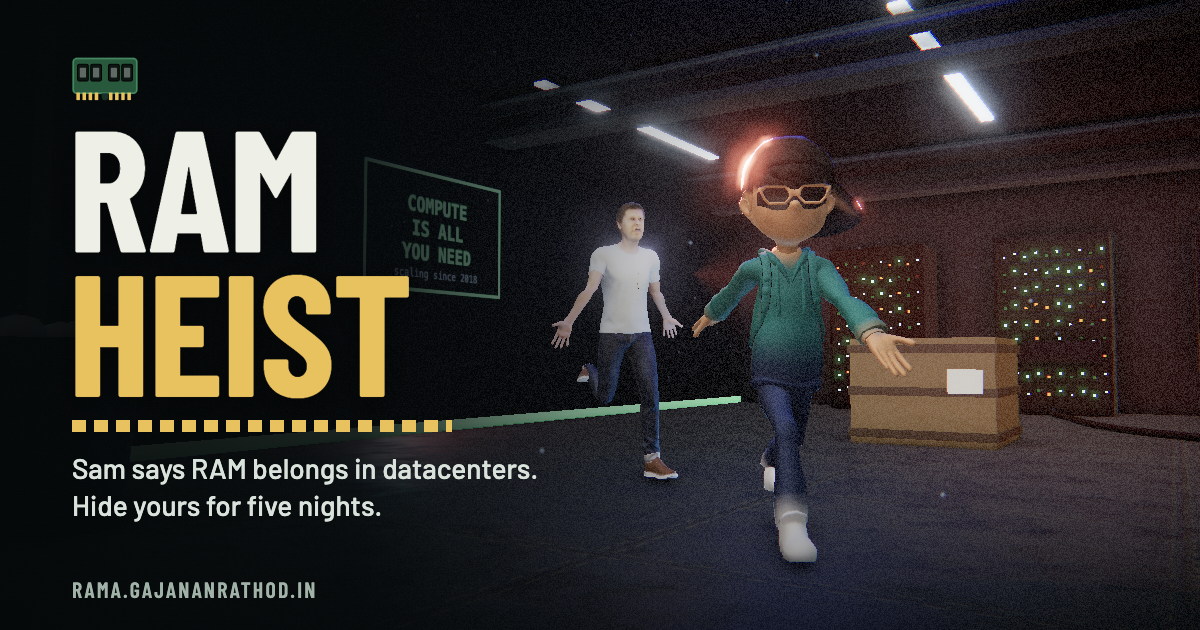
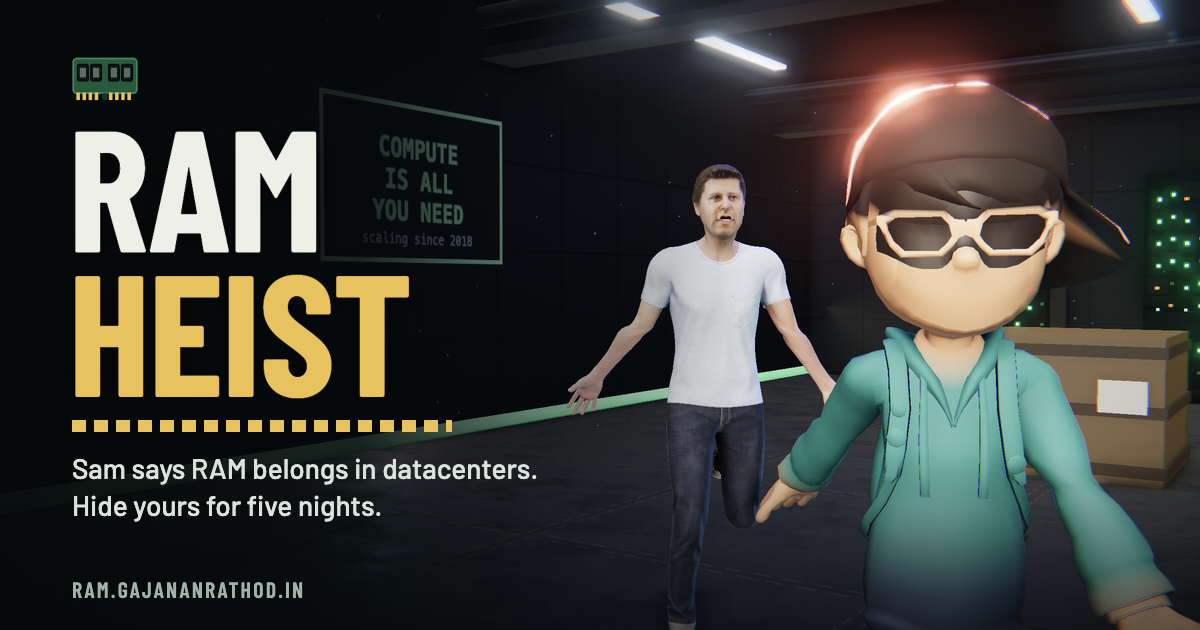
Preview card: ram.gajananrathod.in, clean render with large faces; grain control

diff --git a/index.html b/index.html
@@ -16,15 +16,15 @@
 <meta property="og:site_name" content="RAM Heist" />
 <meta property="og:title" content="RAM Heist: hide your RAM from Sam" />
 <meta property="og:description" content="Sam says RAM belongs in datacenters. Hide yours for five nights, build the People's Cluster, and don't get caught." />
-<meta property="og:url" content="https://rama.gajananrathod.in/" />
-<meta property="og:image" content="https://rama.gajananrathod.in/og-image.png" />
+<meta property="og:url" content="https://ram.gajananrathod.in/" />
+<meta property="og:image" content="https://ram.gajananrathod.in/og-image.png" />
 <meta property="og:image:width" content="1200" />
 <meta property="og:image:height" content="630" />
 <meta property="og:image:alt" content="Aj sprinting through a server room with Sam chasing him. RAM Heist." />
 <meta name="twitter:card" content="summary_large_image" />
 <meta name="twitter:title" content="RAM Heist: hide your RAM from Sam" />
 <meta name="twitter:description" content="A parody stealth game. Hide your RAM for five nights." />
-<meta name="twitter:image" content="https://rama.gajananrathod.in/og-image.png" />
+<meta name="twitter:image" content="https://ram.gajananrathod.in/og-image.png" />
 <link rel="preconnect" href="https://fonts.googleapis.com" />
 <link rel="preconnect" href="https://fonts.gstatic.com" crossorigin />
 <link href="https://fonts.googleapis.com/css2?family=Barlow+Condensed:wght@500;600;700&family=Barlow:wght@400;500;600&display=swap" rel="stylesheet" />

diff --git a/src/engine.js b/src/engine.js
@@ -45,10 +45,10 @@ export const bloom = new UnrealBloomPass(new THREE.Vector2(innerWidth, innerHeig
 composer.addPass(bloom);
 
 export const fxPass = new ShaderPass({
-  uniforms: { tDiffuse: { value: null }, time: { value: 0 }, alert: { value: 0 }, caught: { value: 0 } },
+  uniforms: { tDiffuse: { value: null }, time: { value: 0 }, alert: { value: 0 }, caught: { value: 0 }, grain: { value: 0.03 } },
   vertexShader: `varying vec2 vUv; void main(){ vUv=uv; gl_Position=projectionMatrix*modelViewMatrix*vec4(position,1.); }`,
   fragmentShader: `
-    uniform sampler2D tDiffuse; uniform float time; uniform float alert; uniform float caught; varying vec2 vUv;
+    uniform sampler2D tDiffuse; uniform float time; uniform float alert; uniform float caught; uniform float grain; varying vec2 vUv;
     float h(vec2 p){ return fract(sin(dot(p, vec2(12.9898,78.233)))*43758.5453); }
     void main(){
       vec2 c = vUv-.5; float d = dot(c,c);
@@ -56,7 +56,7 @@ export const fxPass = new ShaderPass({
       vec3 col = vec3(texture2D(tDiffuse,vUv+off).r, texture2D(tDiffuse,vUv).g, texture2D(tDiffuse,vUv-off).b);
       col = mix(col, vec3(dot(col, vec3(.3,.59,.11))), caught*0.6);
       col *= 1.0 - smoothstep(0.1,0.6,d)*0.78;
-      col += (h(vUv*vec2(1920.,1080.)+time)-.5)*0.03;
+      col += (h(vUv*vec2(1920.,1080.)+time)-.5)*grain;
       col += vec3(1.,.05,.1)*alert*0.14*smoothstep(0.04,0.5,d);
       gl_FragColor = vec4(col,1.);
     }`,

diff --git a/src/main.js b/src/main.js
@@ -525,4 +525,4 @@ function step(dt, t, draw = true) {
   if (DEBUG) { ui.show('title', false); startNight(Math.min(parseInt(params.get('night') || '0', 10), 4)); }
   requestAnimationFrame(frame);
 })();
-if (DEBUG) window.__g = { audio, cluster, traps, breakers, placeTrap, useBreaker, playIntro, pickups, spawnPickup, endEndless, step, G, ctx, world, player, camera, get sams() { return sams; }, startNight, endNight, nav, hasModel };
+if (DEBUG) window.__g = { renderer, fxPass, scene, audio, cluster, traps, breakers, placeTrap, useBreaker, playIntro, pickups, spawnPickup, endEndless, step, G, ctx, world, player, camera, get sams() { return sams; }, startNight, endNight, nav, hasModel };

diff --git a/tools/brand.html b/tools/brand.html
@@ -17,7 +17,7 @@
   #icon { background:#0c3328; } #icon img { display:block; width:100%; height:100%; }
 </style>
 <div id="og"><img class="mark" src="/mark.svg"><div class="word">RAM<span>HEIST</span></div><div class="pins"></div>
-  <div class="tag">Sam says RAM belongs in datacenters. Hide yours for five nights.</div><div class="url">RAMA.GAJANANRATHOD.IN</div></div>
+  <div class="tag">Sam says RAM belongs in datacenters. Hide yours for five nights.</div><div class="url">RAM.GAJANANRATHOD.IN</div></div>
 <div id="logo"><img src="/favicon.svg"><div class="w">RAM <span>HEIST</span></div></div>
 <div id="icon"><img src="/favicon.svg"></div>
 <script>
